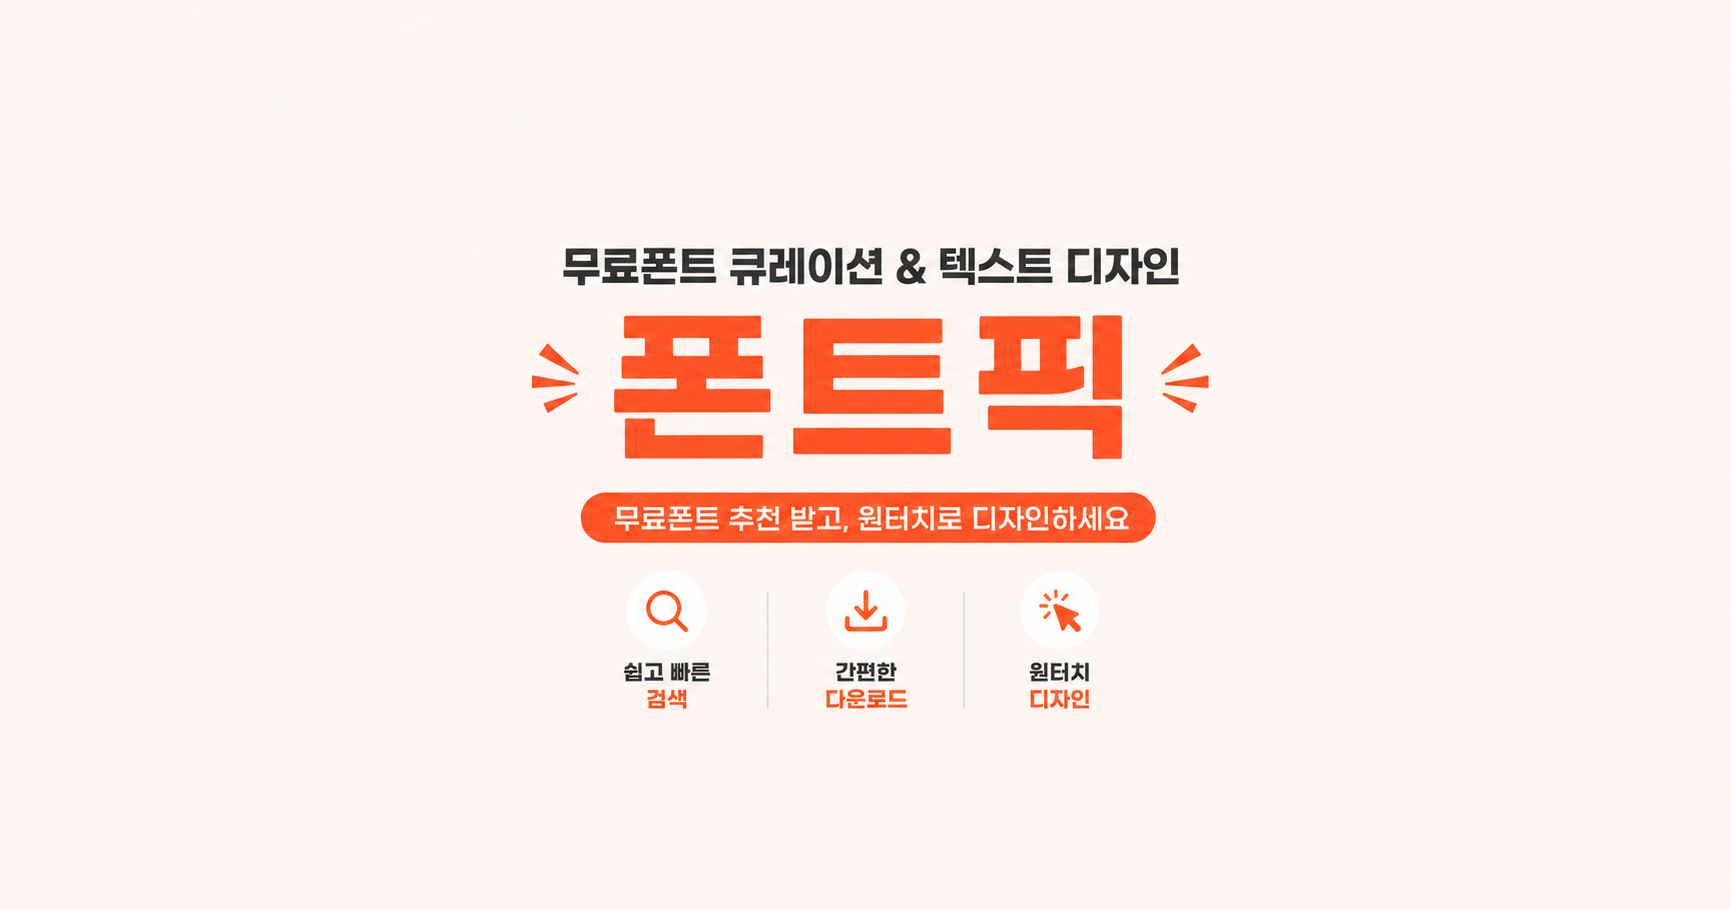
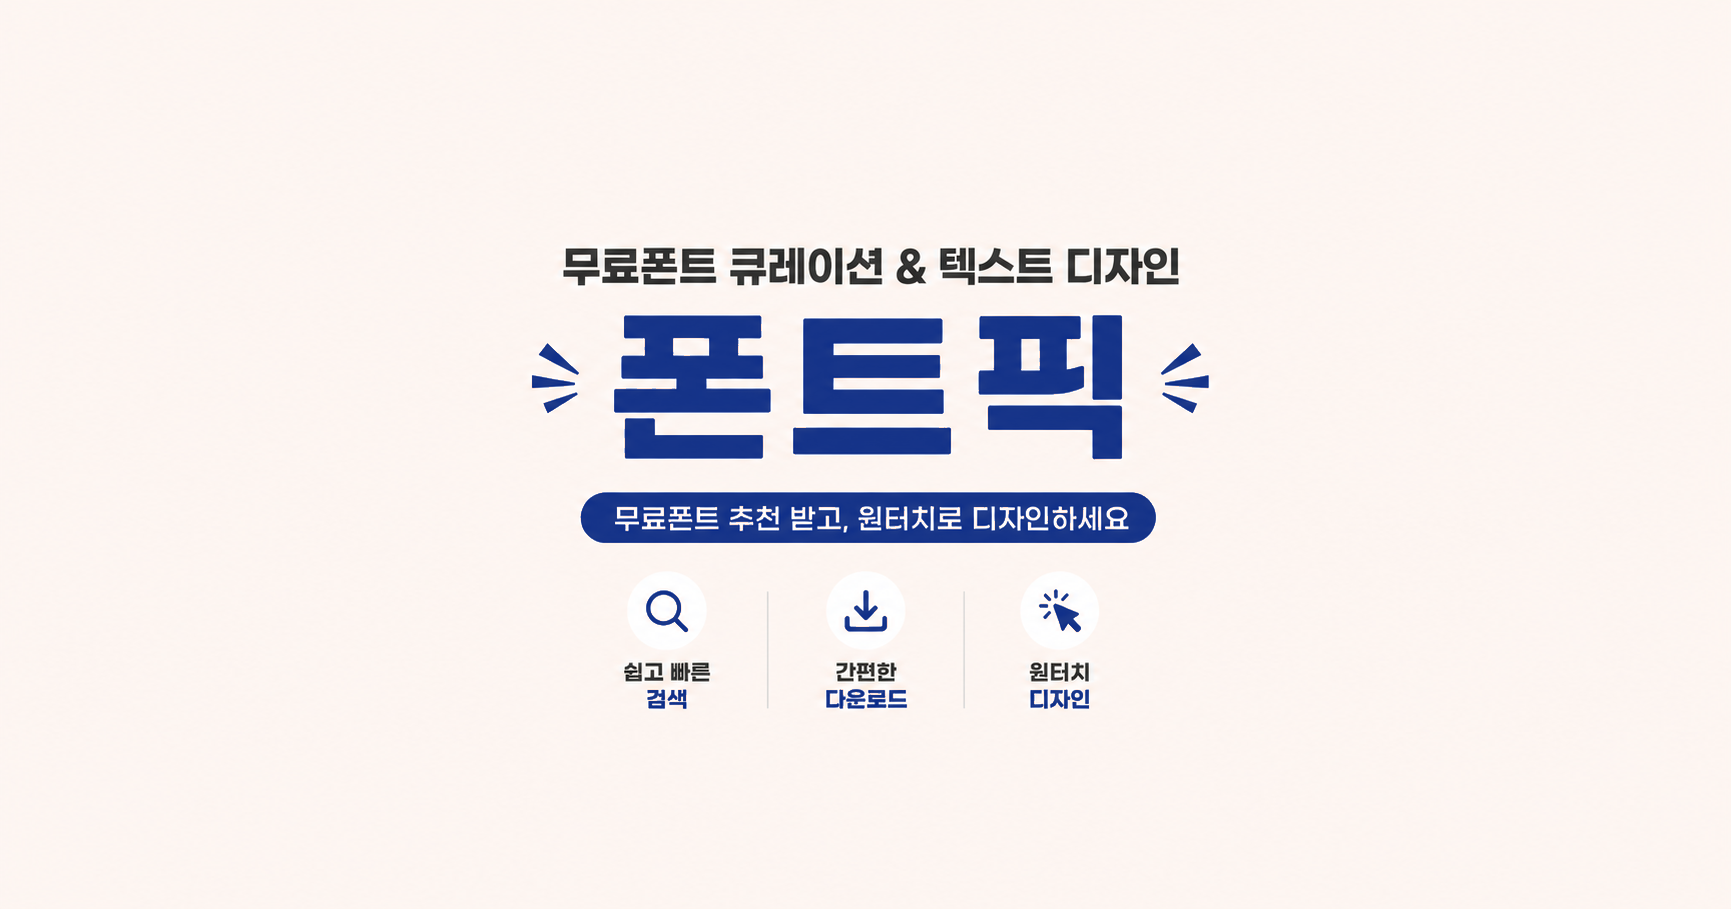
컬러변경

diff --git a/static/index.html b/static/index.html
@@ -49,7 +49,7 @@
   <meta name="yeti" content="index, follow">
   <meta name="daumoa" content="index, follow">
   <meta name="bingbot" content="index, follow">
-  <meta name="theme-color" content="#FF5C35">
+  <meta name="theme-color" content="#1E3A8A">
   <meta name="google-site-verification" content="GWfxCqlFA6zzRtxxiGlxanuesad8mnU76VYEe1-JQ5I" />
   <meta name="naver-site-verification" content="9ba8766e4f703330b05f34778c1a7edfaf98c466" />
   <link rel="canonical" href="https://freefontpick.co.kr/">
@@ -125,27 +125,27 @@
       --bg:#FAFAF7;--bg-card:#fff;--bg-secondary:#F3F3EF;
       --text-primary:#1A1A1A;--text-secondary:#6B6B6B;--text-muted:#9A9A9A;
       --border:rgba(0,0,0,.09);--border-hover:rgba(0,0,0,.18);
-      --accent:#FF5C35;--accent-light:#FFF0EC;--accent-hover:#E84A25;
+      --accent:#1E3A8A;--accent-light:#EEF2FB;--accent-hover:#16307A;
       --radius-sm:8px;--radius-md:12px;--radius-lg:16px;
       --shadow-card:0 1px 4px rgba(0,0,0,.06);--shadow-hover:0 6px 20px rgba(0,0,0,.1);
       --status-allow-bg:#E8F7EE;--status-allow-fg:#1A8A3A;
       --status-deny-bg:#FDECEC;--status-deny-fg:#C8281F;
       --status-reviewed-bg:#FFF4E0;--status-reviewed-fg:#B8790A;
       --status-added-bg:#E8F7EE;--status-added-fg:#1A8A3A;
-      --ofl-grad-a:#FFF5F5;--ofl-border:#FFD9D7;
+      --ofl-grad-a:#F4F7FD;--ofl-border:#CBD8F2;
       color-scheme:light;
     }
     :root[data-theme="dark"]{
       --bg:#141414;--bg-card:#1E1E1E;--bg-secondary:#2A2A2A;
       --text-primary:#F0F0EC;--text-secondary:#A0A09A;--text-muted:#666660;
       --border:rgba(255,255,255,.1);--border-hover:rgba(255,255,255,.2);
-      --accent:#FF6B47;--accent-light:#2A1A14;--accent-hover:#FF8060;
+      --accent:#5B82E0;--accent-light:#141A2A;--accent-hover:#7B9CE8;
       --shadow-card:0 1px 4px rgba(0,0,0,.3);--shadow-hover:0 6px 24px rgba(0,0,0,.4);
       --status-allow-bg:#0F2A18;--status-allow-fg:#5FCB85;
       --status-deny-bg:#2A0F0E;--status-deny-fg:#FF7873;
       --status-reviewed-bg:#2E2410;--status-reviewed-fg:#E0AC4D;
       --status-added-bg:#0F2A18;--status-added-fg:#5FCB85;
-      --ofl-grad-a:#2A1614;--ofl-border:#3A1F1D;
+      --ofl-grad-a:#151B2B;--ofl-border:#243357;
       color-scheme:dark;
     }
     @media(prefers-color-scheme:dark){
@@ -153,13 +153,13 @@
         --bg:#141414;--bg-card:#1E1E1E;--bg-secondary:#2A2A2A;
         --text-primary:#F0F0EC;--text-secondary:#A0A09A;--text-muted:#666660;
         --border:rgba(255,255,255,.1);--border-hover:rgba(255,255,255,.2);
-        --accent:#FF6B47;--accent-light:#2A1A14;--accent-hover:#FF8060;
+        --accent:#5B82E0;--accent-light:#141A2A;--accent-hover:#7B9CE8;
         --shadow-card:0 1px 4px rgba(0,0,0,.3);--shadow-hover:0 6px 24px rgba(0,0,0,.4);
         --status-allow-bg:#0F2A18;--status-allow-fg:#5FCB85;
         --status-deny-bg:#2A0F0E;--status-deny-fg:#FF7873;
         --status-reviewed-bg:#2E2410;--status-reviewed-fg:#E0AC4D;
         --status-added-bg:#0F2A18;--status-added-fg:#5FCB85;
-        --ofl-grad-a:#2A1614;--ofl-border:#3A1F1D;
+        --ofl-grad-a:#151B2B;--ofl-border:#243357;
         color-scheme:dark;
       }
     }
@@ -609,7 +609,7 @@
     .footer-copyright{font-size:11px;color:var(--text-muted);margin-top:14px;letter-spacing:.3px;text-align:center}
 
     /* SCROLL TOP */
-    .scroll-top{position:fixed;bottom:28px;right:28px;width:42px;height:42px;border-radius:50%;background:var(--accent);color:#fff;border:none;cursor:pointer;display:flex;align-items:center;justify-content:center;font-size:18px;box-shadow:0 4px 14px rgba(255,92,53,.4);opacity:0;transform:translateY(10px);transition:opacity .2s,transform .2s,bottom .2s;z-index:300}
+    .scroll-top{position:fixed;bottom:28px;right:28px;width:42px;height:42px;border-radius:50%;background:var(--accent);color:#fff;border:none;cursor:pointer;display:flex;align-items:center;justify-content:center;font-size:18px;box-shadow:0 4px 14px rgba(30,58,138,.4);opacity:0;transform:translateY(10px);transition:opacity .2s,transform .2s,bottom .2s;z-index:300}
     .scroll-top.visible{opacity:1;transform:translateY(0)}
     .scroll-top:hover{background:var(--accent-hover)}
     .floating-ad-shown .scroll-top{bottom:160px}

diff --git a/static/font.html b/static/font.html
@@ -64,27 +64,27 @@
     --bg:#FAFAF7;--bg-card:#fff;--bg-secondary:#F3F3EF;
     --text-primary:#1A1A1A;--text-secondary:#6B6B6B;--text-muted:#9A9A9A;
     --border:rgba(0,0,0,.09);--border-hover:rgba(0,0,0,.18);
-    --accent:#FF5C35;--accent-light:#FFF0EC;--accent-hover:#E84A25;
+    --accent:#1E3A8A;--accent-light:#EEF2FB;--accent-hover:#16307A;
     --radius-sm:8px;--radius-md:12px;--radius-lg:16px;
     --shadow-card:0 1px 4px rgba(0,0,0,.06);--shadow-hover:0 6px 20px rgba(0,0,0,.1);
     --status-allow-bg:#E8F7EE;--status-allow-fg:#1A8A3A;
     --status-deny-bg:#FDECEC;--status-deny-fg:#C8281F;
     --status-reviewed-bg:#FFF4E0;--status-reviewed-fg:#B8790A;
     --status-added-bg:#E8F7EE;--status-added-fg:#1A8A3A;
-    --ofl-grad-a:#FFF5F5;--ofl-border:#FFD9D7;
+    --ofl-grad-a:#F4F7FD;--ofl-border:#CBD8F2;
     color-scheme:light;
   }
   :root[data-theme="dark"]{
     --bg:#141414;--bg-card:#1E1E1E;--bg-secondary:#2A2A2A;
     --text-primary:#F0F0EC;--text-secondary:#A0A09A;--text-muted:#666660;
     --border:rgba(255,255,255,.1);--border-hover:rgba(255,255,255,.2);
-    --accent:#FF6B47;--accent-light:#2A1A14;--accent-hover:#FF8060;
+    --accent:#5B82E0;--accent-light:#141A2A;--accent-hover:#7B9CE8;
     --shadow-card:0 1px 4px rgba(0,0,0,.3);--shadow-hover:0 6px 24px rgba(0,0,0,.4);
     --status-allow-bg:#0F2A18;--status-allow-fg:#5FCB85;
     --status-deny-bg:#2A0F0E;--status-deny-fg:#FF7873;
     --status-reviewed-bg:#2E2410;--status-reviewed-fg:#E0AC4D;
     --status-added-bg:#0F2A18;--status-added-fg:#5FCB85;
-    --ofl-grad-a:#2A1614;--ofl-border:#3A1F1D;
+    --ofl-grad-a:#151B2B;--ofl-border:#243357;
     color-scheme:dark;
   }
   @media(prefers-color-scheme:dark){
@@ -92,13 +92,13 @@
       --bg:#141414;--bg-card:#1E1E1E;--bg-secondary:#2A2A2A;
       --text-primary:#F0F0EC;--text-secondary:#A0A09A;--text-muted:#666660;
       --border:rgba(255,255,255,.1);--border-hover:rgba(255,255,255,.2);
-      --accent:#FF6B47;--accent-light:#2A1A14;--accent-hover:#FF8060;
+      --accent:#5B82E0;--accent-light:#141A2A;--accent-hover:#7B9CE8;
       --shadow-card:0 1px 4px rgba(0,0,0,.3);--shadow-hover:0 6px 24px rgba(0,0,0,.4);
       --status-allow-bg:#0F2A18;--status-allow-fg:#5FCB85;
       --status-deny-bg:#2A0F0E;--status-deny-fg:#FF7873;
       --status-reviewed-bg:#2E2410;--status-reviewed-fg:#E0AC4D;
       --status-added-bg:#0F2A18;--status-added-fg:#5FCB85;
-      --ofl-grad-a:#2A1614;--ofl-border:#3A1F1D;
+      --ofl-grad-a:#151B2B;--ofl-border:#243357;
       color-scheme:dark;
     }
   }

diff --git a/static/admin.html b/static/admin.html
@@ -25,7 +25,7 @@
       --bg:#FAFAF7;--bg-card:#fff;--bg-secondary:#F3F3EF;
       --text-primary:#1A1A1A;--text-secondary:#6B6B6B;--text-muted:#9A9A9A;
       --border:rgba(0,0,0,.09);--border-hover:rgba(0,0,0,.18);
-      --accent:#FF5C35;--accent-light:#FFF0EC;--accent-hover:#E84A25;
+      --accent:#1E3A8A;--accent-light:#EEF2FB;--accent-hover:#16307A;
       --danger:#E24B4A;--danger-light:#FDECEC;
       --success:#1A8A3A;--success-light:#E8F7EE;
       --radius-sm:8px;--radius-md:12px;--radius-lg:16px;
@@ -36,7 +36,7 @@
       --bg:#141414;--bg-card:#1E1E1E;--bg-secondary:#2A2A2A;
       --text-primary:#F0F0EC;--text-secondary:#A0A09A;--text-muted:#666660;
       --border:rgba(255,255,255,.1);--border-hover:rgba(255,255,255,.2);
-      --accent:#FF6B47;--accent-light:#2A1A14;--accent-hover:#FF8060;
+      --accent:#5B82E0;--accent-light:#141A2A;--accent-hover:#7B9CE8;
       --danger:#FF7873;--danger-light:#2A0F0E;
       --success:#5FCB85;--success-light:#0F2A18;
       --shadow-card:0 1px 4px rgba(0,0,0,.3);--shadow-hover:0 6px 24px rgba(0,0,0,.4);
@@ -47,7 +47,7 @@
         --bg:#141414;--bg-card:#1E1E1E;--bg-secondary:#2A2A2A;
         --text-primary:#F0F0EC;--text-secondary:#A0A09A;--text-muted:#666660;
         --border:rgba(255,255,255,.1);--border-hover:rgba(255,255,255,.2);
-        --accent:#FF6B47;--accent-light:#2A1A14;--accent-hover:#FF8060;
+        --accent:#5B82E0;--accent-light:#141A2A;--accent-hover:#7B9CE8;
         --danger:#FF7873;--danger-light:#2A0F0E;
         --success:#5FCB85;--success-light:#0F2A18;
         --shadow-card:0 1px 4px rgba(0,0,0,.3);--shadow-hover:0 6px 24px rgba(0,0,0,.4);
@@ -514,7 +514,7 @@
         <label>제작자 <span class="req">*</span></label>
         <input type="text" id="fmMaker" placeholder="예: 네이버, 또는 개인 제작자명">
       </div>
-      <div class="field" style="display:flex;align-items:center;gap:8px;background:var(--accent-light,#FFF0EC);border:1px solid var(--accent);border-radius:6px;padding:10px 14px">
+      <div class="field" style="display:flex;align-items:center;gap:8px;background:var(--accent-light,#EEF2FB);border:1px solid var(--accent);border-radius:6px;padding:10px 14px">
         <input type="checkbox" id="fmIsPick" style="width:16px;height:16px;accent-color:var(--accent);cursor:pointer">
         <label for="fmIsPick" style="margin:0;cursor:pointer;display:flex;flex-direction:column;gap:2px">
           <span style="font-weight:700">큐레이터 픽으로 지정</span>
@@ -1293,7 +1293,7 @@ function renderFontTable(){
           </div>
         </td>
         <td>
-          <div class="cell-name">${escapeHtml(f.name)} ${uploaded}${f.isPick ? ' <span style="font-family:ui-monospace,monospace;font-size:10px;font-weight:700;color:#FF5C35;border:1px solid #FF5C35;border-radius:2px;padding:1px 5px;vertical-align:middle">PICK</span>' : ''}</div>
+          <div class="cell-name">${escapeHtml(f.name)} ${uploaded}${f.isPick ? ' <span style="font-family:ui-monospace,monospace;font-size:10px;font-weight:700;color:#1E3A8A;border:1px solid #1E3A8A;border-radius:2px;padding:1px 5px;vertical-align:middle">PICK</span>' : ''}</div>
         </td>
         <td><div class="cell-maker">${escapeHtml(f.maker)}</div></td>
         <td>${escapeHtml(f.weights)}</td>

diff --git a/static/about.html b/static/about.html
@@ -40,7 +40,7 @@
       --bg:#FAFAF7;--bg-card:#fff;--bg-secondary:#F3F3EF;
       --text-primary:#1A1A1A;--text-secondary:#6B6B6B;--text-muted:#9A9A9A;
       --border:rgba(0,0,0,.09);--border-hover:rgba(0,0,0,.18);
-      --accent:#FF5C35;--accent-light:#FFF0EC;--accent-hover:#E84A25;
+      --accent:#1E3A8A;--accent-light:#EEF2FB;--accent-hover:#16307A;
       --radius-sm:8px;--radius-md:12px;--radius-lg:16px;
       --shadow-card:0 1px 4px rgba(0,0,0,.06);
       color-scheme:light;
@@ -49,7 +49,7 @@
       --bg:#141414;--bg-card:#1E1E1E;--bg-secondary:#2A2A2A;
       --text-primary:#F0F0EC;--text-secondary:#A0A09A;--text-muted:#666660;
       --border:rgba(255,255,255,.1);--border-hover:rgba(255,255,255,.2);
-      --accent:#FF6B47;--accent-light:#2A1A14;--accent-hover:#FF8060;
+      --accent:#5B82E0;--accent-light:#141A2A;--accent-hover:#7B9CE8;
       color-scheme:dark;
     }
     @media(prefers-color-scheme:dark){
@@ -57,7 +57,7 @@
         --bg:#141414;--bg-card:#1E1E1E;--bg-secondary:#2A2A2A;
         --text-primary:#F0F0EC;--text-secondary:#A0A09A;--text-muted:#666660;
         --border:rgba(255,255,255,.1);--border-hover:rgba(255,255,255,.2);
-        --accent:#FF6B47;--accent-light:#2A1A14;--accent-hover:#FF8060;
+        --accent:#5B82E0;--accent-light:#141A2A;--accent-hover:#7B9CE8;
         color-scheme:dark;
       }
     }

diff --git a/static/faq.html b/static/faq.html
@@ -40,7 +40,7 @@
       --bg:#FAFAF7;--bg-card:#fff;--bg-secondary:#F3F3EF;
       --text-primary:#1A1A1A;--text-secondary:#6B6B6B;--text-muted:#9A9A9A;
       --border:rgba(0,0,0,.09);--border-hover:rgba(0,0,0,.18);
-      --accent:#FF5C35;--accent-light:#FFF0EC;--accent-hover:#E84A25;
+      --accent:#1E3A8A;--accent-light:#EEF2FB;--accent-hover:#16307A;
       --radius-sm:8px;--radius-md:12px;--radius-lg:16px;
       --shadow-card:0 1px 4px rgba(0,0,0,.06);
       color-scheme:light;
@@ -49,7 +49,7 @@
       --bg:#141414;--bg-card:#1E1E1E;--bg-secondary:#2A2A2A;
       --text-primary:#F0F0EC;--text-secondary:#A0A09A;--text-muted:#666660;
       --border:rgba(255,255,255,.1);--border-hover:rgba(255,255,255,.2);
-      --accent:#FF6B47;--accent-light:#2A1A14;--accent-hover:#FF8060;
+      --accent:#5B82E0;--accent-light:#141A2A;--accent-hover:#7B9CE8;
       color-scheme:dark;
     }
     @media(prefers-color-scheme:dark){
@@ -57,7 +57,7 @@
         --bg:#141414;--bg-card:#1E1E1E;--bg-secondary:#2A2A2A;
         --text-primary:#F0F0EC;--text-secondary:#A0A09A;--text-muted:#666660;
         --border:rgba(255,255,255,.1);--border-hover:rgba(255,255,255,.2);
-        --accent:#FF6B47;--accent-light:#2A1A14;--accent-hover:#FF8060;
+        --accent:#5B82E0;--accent-light:#141A2A;--accent-hover:#7B9CE8;
         color-scheme:dark;
       }
     }

diff --git a/static/policy.html b/static/policy.html
@@ -39,7 +39,7 @@
       --bg:#FAFAF7;--bg-card:#fff;--bg-secondary:#F3F3EF;
       --text-primary:#1A1A1A;--text-secondary:#6B6B6B;--text-muted:#9A9A9A;
       --border:rgba(0,0,0,.09);--border-hover:rgba(0,0,0,.18);
-      --accent:#FF5C35;--accent-light:#FFF0EC;--accent-hover:#E84A25;
+      --accent:#1E3A8A;--accent-light:#EEF2FB;--accent-hover:#16307A;
       --radius-sm:8px;--radius-md:12px;--radius-lg:16px;
       --shadow-card:0 1px 4px rgba(0,0,0,.06);
       color-scheme:light;
@@ -48,7 +48,7 @@
       --bg:#141414;--bg-card:#1E1E1E;--bg-secondary:#2A2A2A;
       --text-primary:#F0F0EC;--text-secondary:#A0A09A;--text-muted:#666660;
       --border:rgba(255,255,255,.1);--border-hover:rgba(255,255,255,.2);
-      --accent:#FF6B47;--accent-light:#2A1A14;--accent-hover:#FF8060;
+      --accent:#5B82E0;--accent-light:#141A2A;--accent-hover:#7B9CE8;
       color-scheme:dark;
     }
     @media(prefers-color-scheme:dark){
@@ -56,7 +56,7 @@
         --bg:#141414;--bg-card:#1E1E1E;--bg-secondary:#2A2A2A;
         --text-primary:#F0F0EC;--text-secondary:#A0A09A;--text-muted:#666660;
         --border:rgba(255,255,255,.1);--border-hover:rgba(255,255,255,.2);
-        --accent:#FF6B47;--accent-light:#2A1A14;--accent-hover:#FF8060;
+        --accent:#5B82E0;--accent-light:#141A2A;--accent-hover:#7B9CE8;
         color-scheme:dark;
       }
     }

diff --git a/static/privacy.html b/static/privacy.html
@@ -34,7 +34,7 @@
       --bg:#FAFAF7;--bg-card:#fff;--bg-secondary:#F3F3EF;
       --text-primary:#1A1A1A;--text-secondary:#6B6B6B;--text-muted:#9A9A9A;
       --border:rgba(0,0,0,.09);--border-hover:rgba(0,0,0,.18);
-      --accent:#FF5C35;--accent-light:#FFF0EC;--accent-hover:#E84A25;
+      --accent:#1E3A8A;--accent-light:#EEF2FB;--accent-hover:#16307A;
       --radius-sm:8px;--radius-md:12px;--radius-lg:16px;
       --shadow-card:0 1px 4px rgba(0,0,0,.06);
       color-scheme:light;
@@ -43,7 +43,7 @@
       --bg:#141414;--bg-card:#1E1E1E;--bg-secondary:#2A2A2A;
       --text-primary:#F0F0EC;--text-secondary:#A0A09A;--text-muted:#666660;
       --border:rgba(255,255,255,.1);--border-hover:rgba(255,255,255,.2);
-      --accent:#FF6B47;--accent-light:#2A1A14;--accent-hover:#FF8060;
+      --accent:#5B82E0;--accent-light:#141A2A;--accent-hover:#7B9CE8;
       color-scheme:dark;
     }
     @media(prefers-color-scheme:dark){
@@ -51,7 +51,7 @@
         --bg:#141414;--bg-card:#1E1E1E;--bg-secondary:#2A2A2A;
         --text-primary:#F0F0EC;--text-secondary:#A0A09A;--text-muted:#666660;
         --border:rgba(255,255,255,.1);--border-hover:rgba(255,255,255,.2);
-        --accent:#FF6B47;--accent-light:#2A1A14;--accent-hover:#FF8060;
+        --accent:#5B82E0;--accent-light:#141A2A;--accent-hover:#7B9CE8;
         color-scheme:dark;
       }
     }